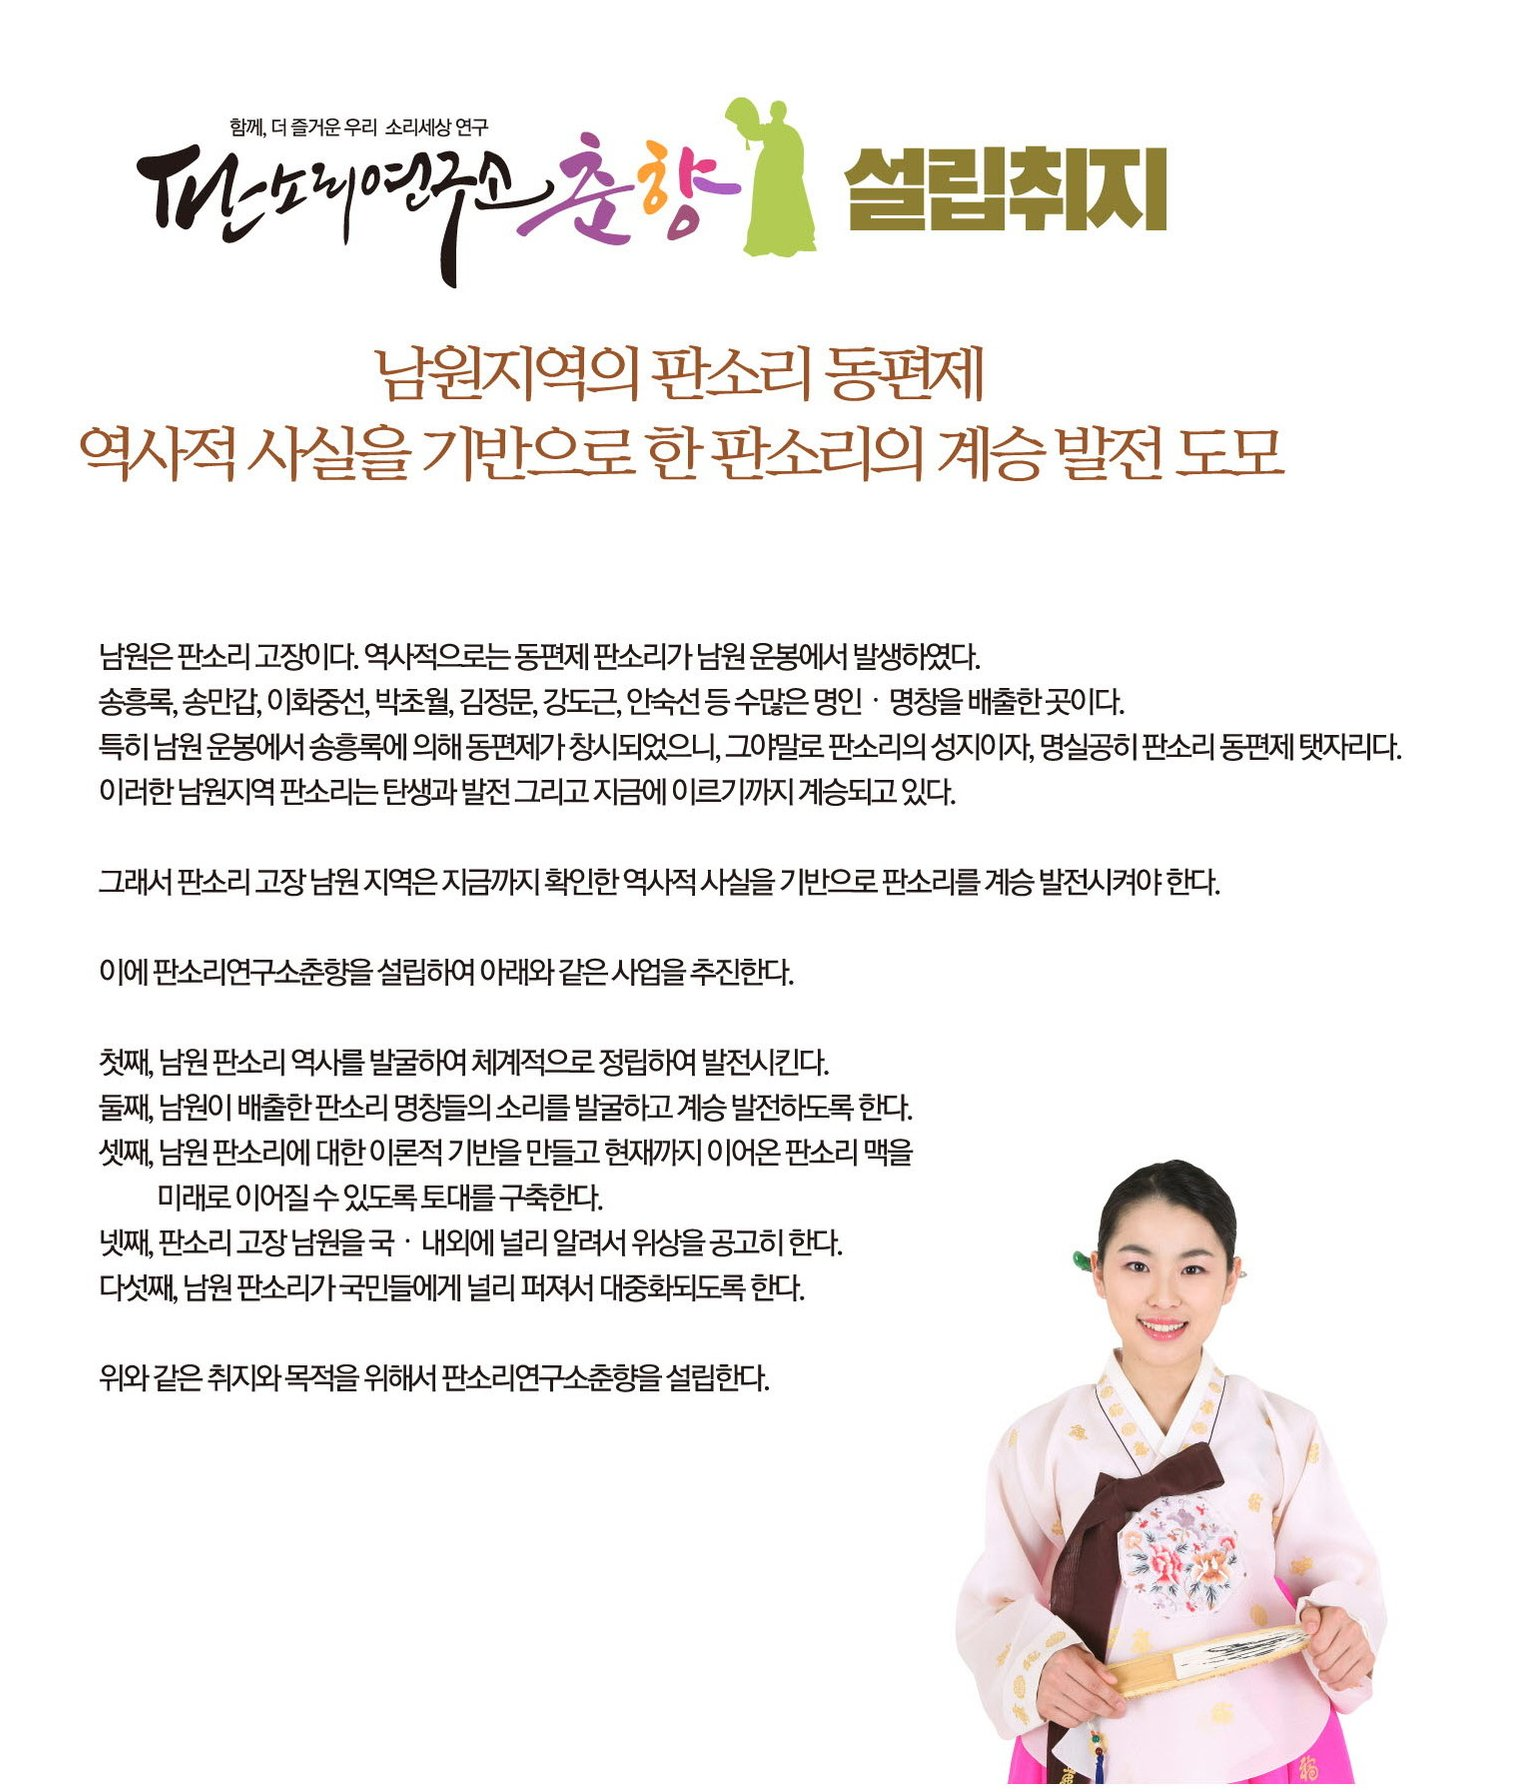
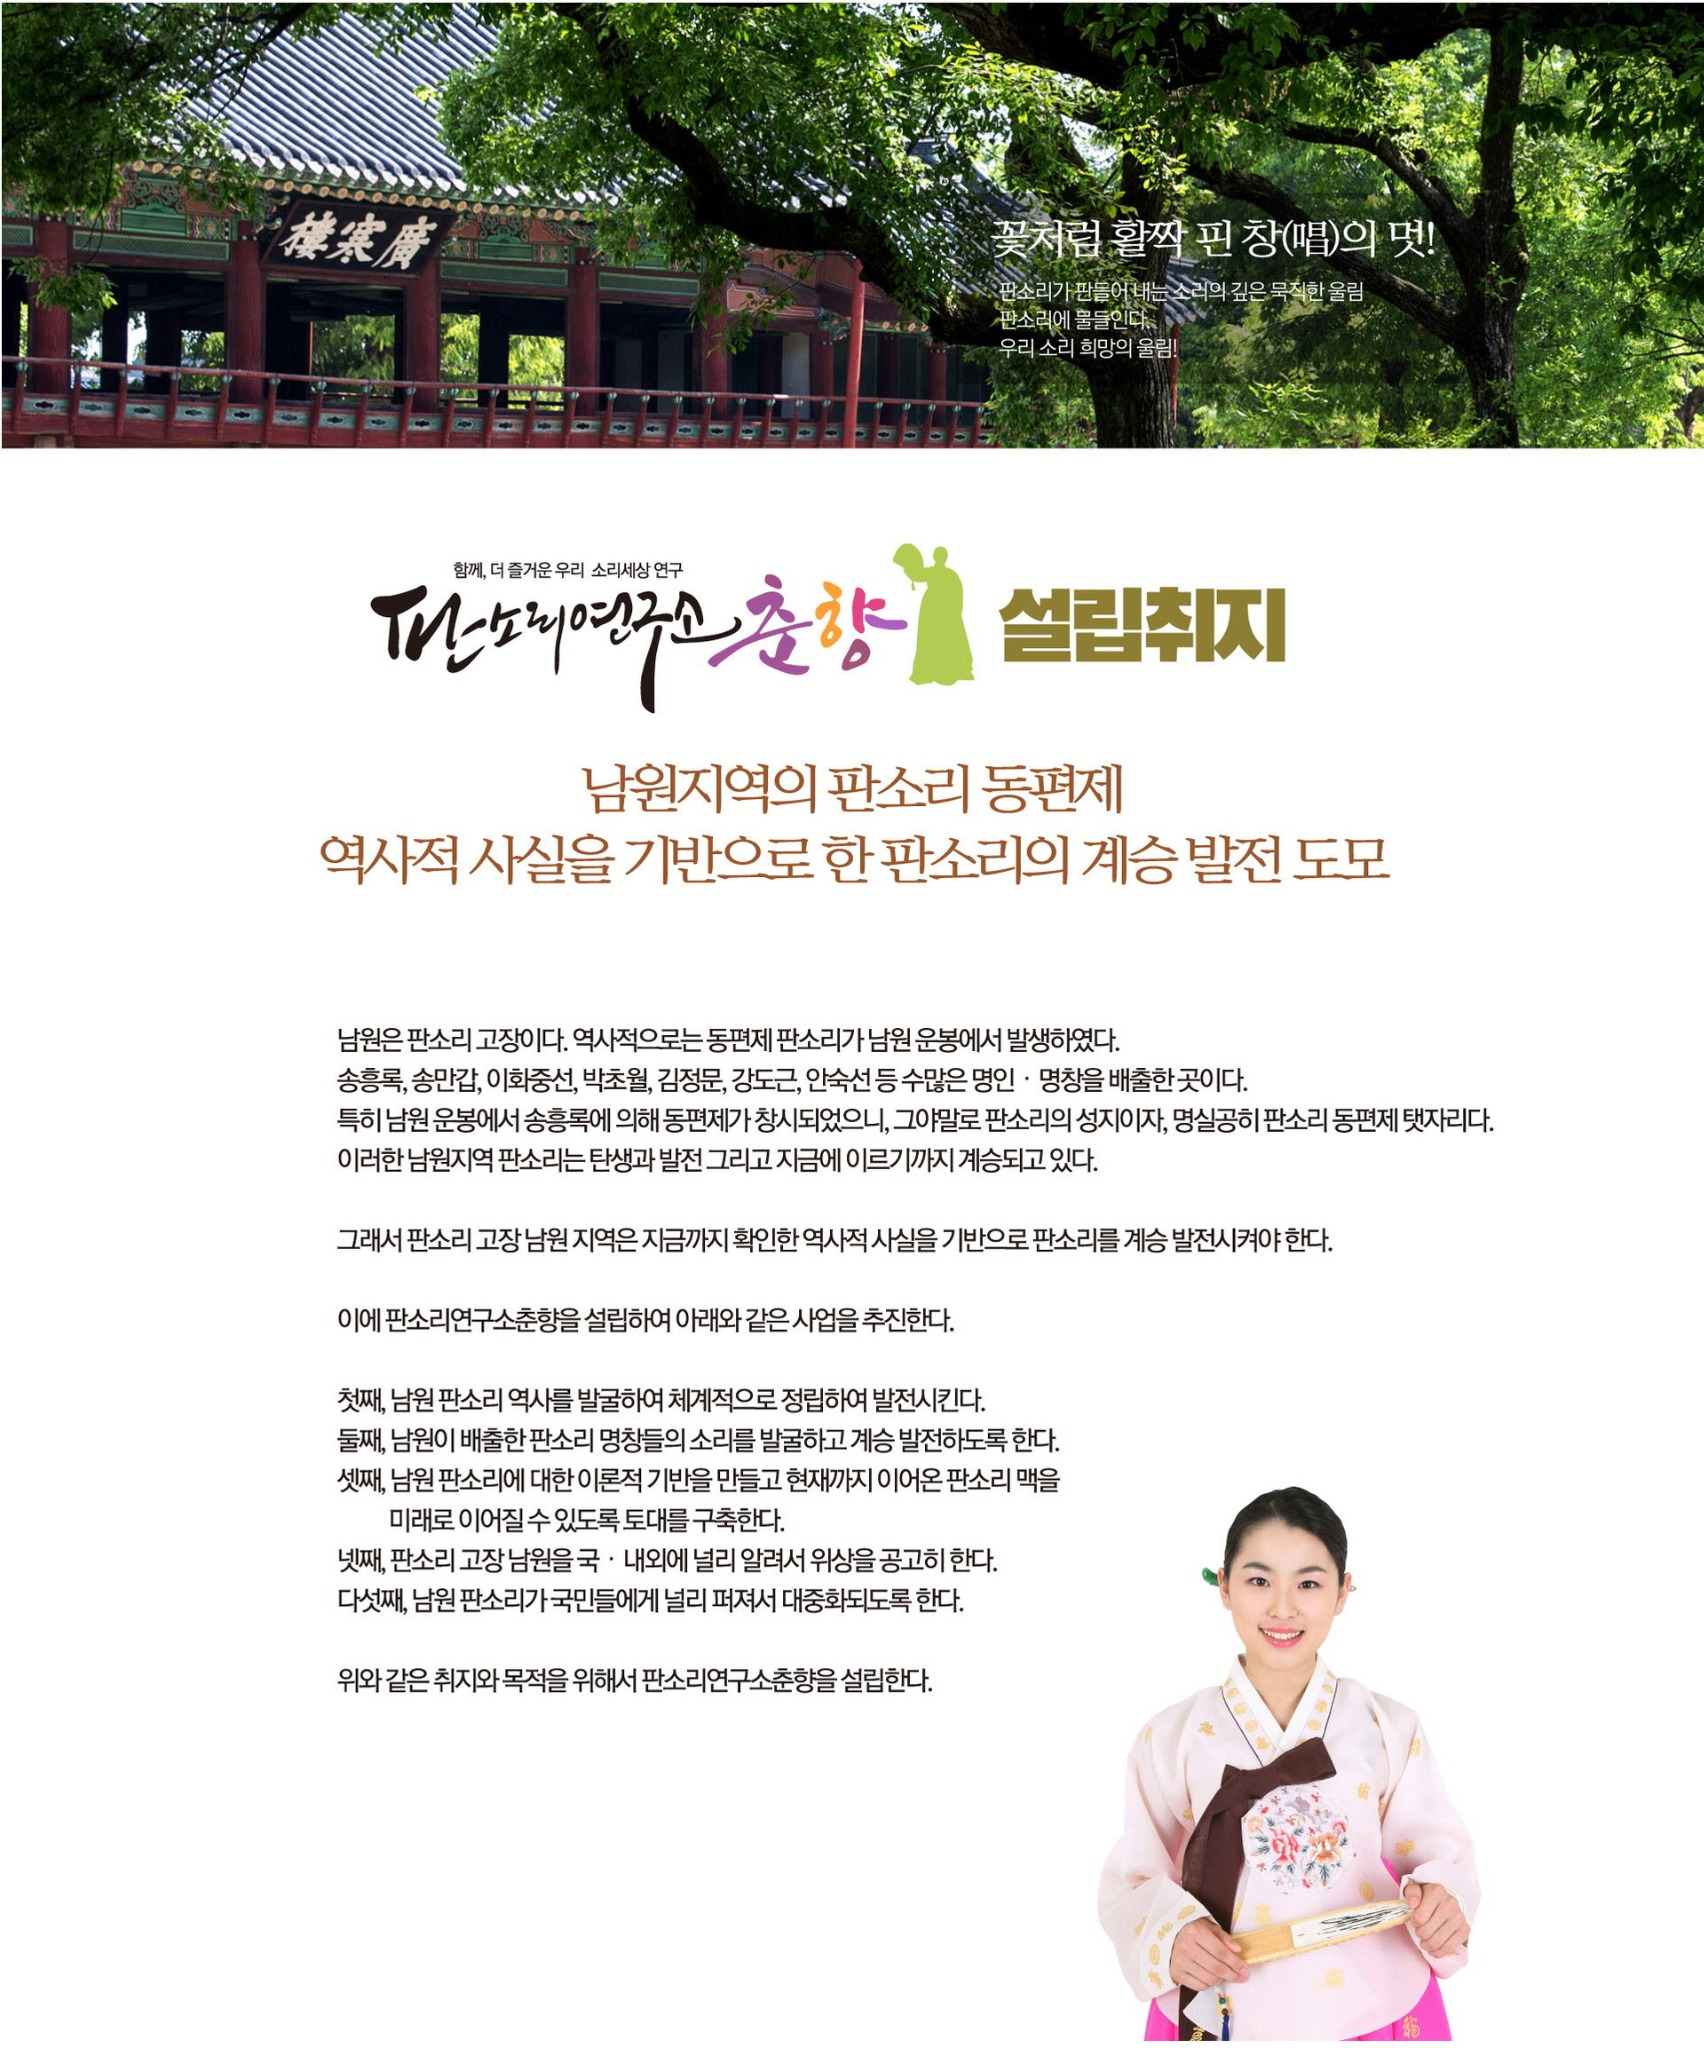
Add files via upload

diff --git a/purpose.html b/purpose.html
@@ -5,24 +5,18 @@
   <meta name="viewport" content="width=device-width, initial-scale=1">
   <title>설립취지 | 판소리연구소 춘향</title>
   <meta name="description" content="판소리연구소 춘향 설립취지">
-  <link rel="preconnect" href="https://fonts.googleapis.com">
-  <link rel="preconnect" href="https://fonts.gstatic.com" crossorigin>
-  <link href="https://fonts.googleapis.com/css2?family=Noto+Sans+KR:wght@400;500;700;800&display=swap" rel="stylesheet">
   <link rel="stylesheet" href="./style.css">
   <style>
-    .purpose-image-section{padding:40px 0 80px;background:#f3f3f3;}
-    .purpose-image-wrap{width:min(1180px, calc(100% - 32px));margin:0 auto;}
-    .purpose-image{display:block;width:100%;height:auto;border-radius:0;box-shadow:0 8px 24px rgba(0,0,0,.06);background:#fff;}
-    @media (max-width: 768px){
-      .purpose-image-section{padding:20px 0 40px;}
-      .purpose-image-wrap{width:calc(100% - 16px);}
-    }
+    main{padding:0;margin:0;}
+    .purpose-image-section{padding:0;margin:0;background:#f3f3f3;}
+    .purpose-image-wrap{width:100%;max-width:1120px;margin:0 auto;}
+    .purpose-image{display:block;width:100%;height:auto;margin:0;}
   </style>
 </head>
 <body>
   <header class="site-header">
     <a class="brand" href="./index.html" aria-label="춘향 홈페이지">
-      <img class="brand-img" src="./assets/chunhyang-header.png" alt="판소리연구소 춘향" width="404" height="120">
+      <img class="brand-img" src="./assets/chunhyang-header.png" alt="판소리연구소 춘향">
     </a>
     <button class="menu-toggle" aria-label="메뉴 열기" aria-expanded="false">☰</button>
     <nav id="primary-nav" aria-label="주 메뉴">
@@ -46,17 +40,17 @@
   <main>
     <section class="purpose-image-section">
       <div class="purpose-image-wrap">
-        <img class="purpose-image" src="./assets/purpose-full.jpg" alt="판소리연구소 춘향 설립취지 이미지">
+        <img class="purpose-image" src="./assets/purpose-full.jpg" alt="판소리연구소 춘향 설립취지">
       </div>
     </section>
   </main>
 
   <footer class="footer footer-official">
     <div class="partner-strip" aria-label="관련 기관 바로가기">
-      <a href="https://www.jeonbuk.go.kr/index.jeonbuk" target="_blank" rel="noopener noreferrer" aria-label="전라북도 홈페이지 새 탭"><img src="./assets/logo-jeonbuk.png" alt="전라북도"></a>
-      <a href="https://www.namwon.go.kr/index.do" target="_blank" rel="noopener noreferrer" aria-label="남원시 홈페이지 새 탭"><img src="./assets/logo-namwon.png" alt="남원시"></a>
-      <a href="https://hometax.go.kr/websquare/websquare.html?w2xPath=/ui/pp/index_pp.xml" target="_blank" rel="noopener noreferrer" aria-label="국세청 홈페이지 새 탭"><img src="./assets/logo-nts.png" alt="국세청"></a>
-      <a href="https://www.acrc.go.kr/" target="_blank" rel="noopener noreferrer" aria-label="국민권익위원회 홈페이지 새 탭"><img src="./assets/logo-acrc.png" alt="국민권익위원회"></a>
+      <a href="https://www.jeonbuk.go.kr/index.jeonbuk" target="_blank" rel="noopener noreferrer"><img src="./assets/logo-jeonbuk.png" alt="전라북도"></a>
+      <a href="https://www.namwon.go.kr/index.do" target="_blank" rel="noopener noreferrer"><img src="./assets/logo-namwon.png" alt="남원시"></a>
+      <a href="https://hometax.go.kr/websquare/websquare.html?w2xPath=/ui/pp/index_pp.xml" target="_blank" rel="noopener noreferrer"><img src="./assets/logo-nts.png" alt="국세청"></a>
+      <a href="https://www.acrc.go.kr/" target="_blank" rel="noopener noreferrer"><img src="./assets/logo-acrc.png" alt="국민권익위원회"></a>
     </div>
     <div class="wrap footer-inner official-footer-content">
       <div class="footer-brand-block"><img src="./assets/chunhyang-footer.png" alt="판소리연구소 춘향"></div>
